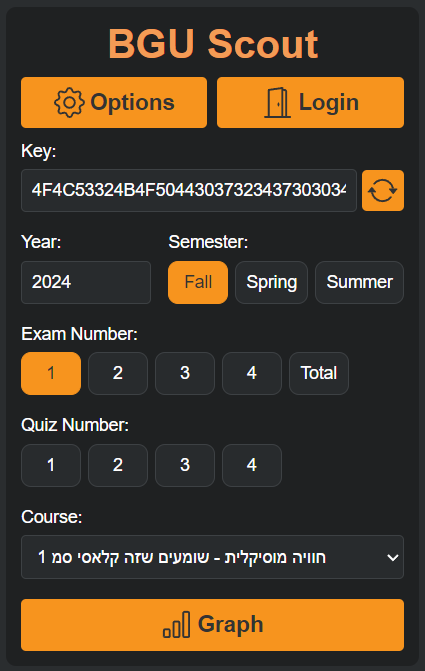
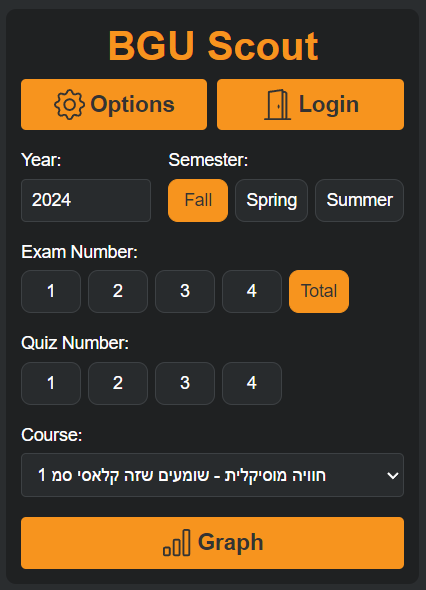
docs: update README instructions for generating course statistics for clarity

diff --git a/README.md b/README.md
@@ -98,12 +98,11 @@ BGU Scout is a Chrome extension designed to assist Ben-Gurion University student
 ### Generating Course Statistics
 
 1. Open the extension popup.
-2. click the double arrow icon to generate new key.
-3. Enter the desired year.
-4. Choose the desired semester and Exam/Quiz number.
-5. Select the course name from the dropdown list.
-6. Click the "Graph" icon.
-7. Enjoy the graphical representation of the course statistics.
+2. Enter the desired year.
+3. Choose the desired semester and Exam/Quiz number.
+4. Select the course name from the dropdown list.
+5. Click the "Graph" icon and wait for the data to load.
+6. Enjoy the graphical representation of the course statistics.
 
 ## 📸 Screenshots
 
